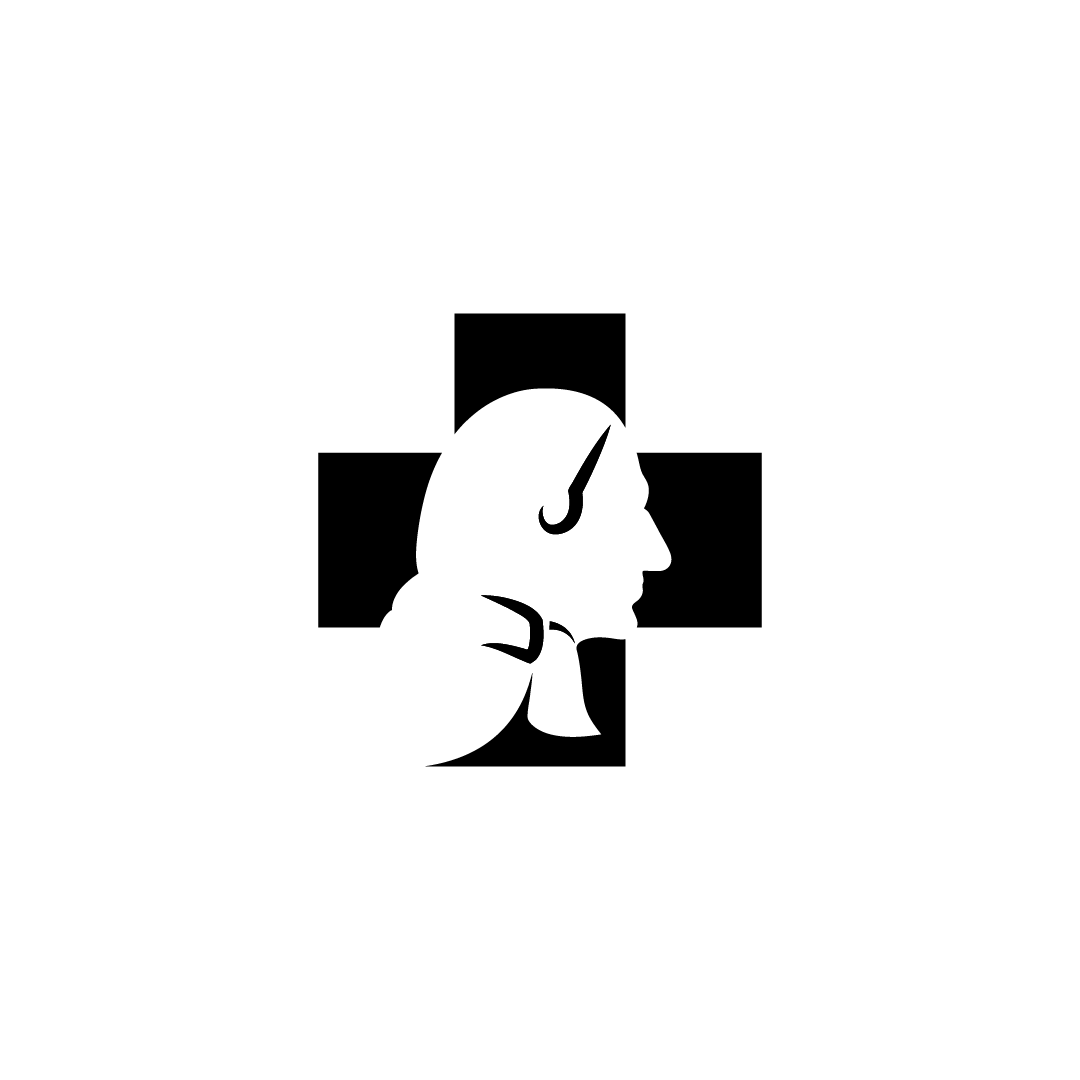
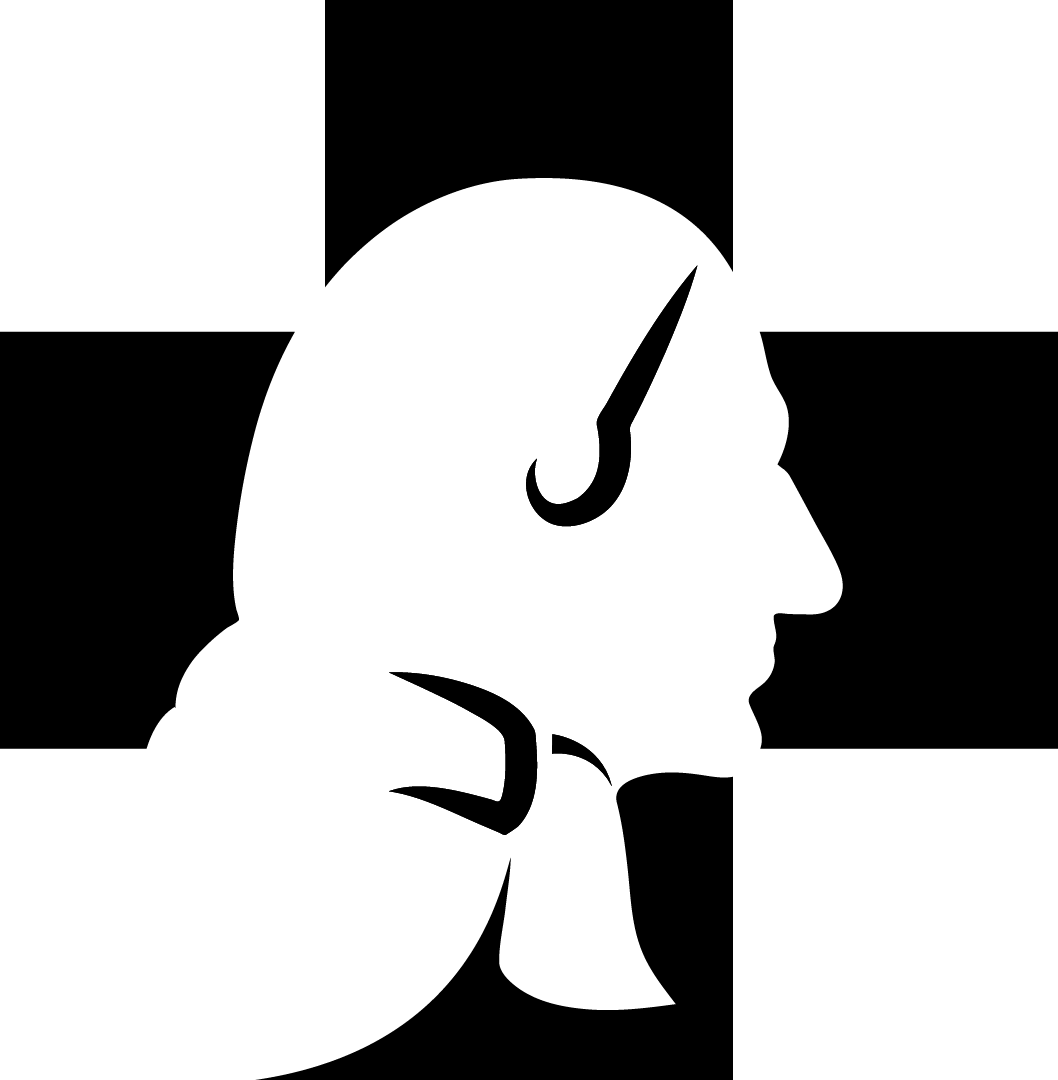
new services view an change styles

diff --git a/servicios.html b/servicios.html
@@ -12,12 +12,13 @@
     <link href="assets/vendor/bootstrap-icons/bootstrap-icons.css" rel="stylesheet">
 
     <link href="assets/css/style.css" rel="stylesheet">
+    <link  href="assets/css/servicios.css" rel="stylesheet">
 
 <body>
     <!-- Barra de navegación -->
     <nav class="navbar navbar-expand-lg sticky-top" id="navbar">
         <div class="container my-1">
-            <a class="navbar-brand" href="#"><img src="assets/img/iconoWesley.png" alt="Logo Centro mMedico"
+            <a class="navbar-brand" href="#"><img src="assets/img/iconoWesley_1.png" alt="Logo Centro mMedico"
                     class="img-fluid" width="50" height="50"> </a>
             <button class="navbar-toggler d-lg-none order-3 p-2" type="button" data-bs-toggle="offcanvas"
                 data-bs-target="#mobileMenu" aria-controls="mobileMenu">
@@ -25,7 +26,7 @@
             </button>
             <div class="offcanvas offcanvas-end" tabindex="-1" id="mobileMenu">
                 <div class="offcanvas-header px-4 pb-0">
-                    <h5 class="offcanvas-title text-white">Centro Medico Wesley</h5>
+                    <h5 class="offcanvas-title">Centro Medico Wesley</h5>
                     <button type="button" class="btn-close text-reset" data-bs-dismiss="offcanvas"
                         aria-label="Cerrar"></button>
                 </div>
@@ -70,7 +71,7 @@
                             </a>
                         </li>
                         <li class="nav-item py-2 py-lg-1 col-12 col-lg-auto">
-                            <div class="vr d-none d-lg-flex h-75 mx-lg-2 text-white"></div>
+                            <div class="vr d-none d-lg-flex h-75 mx-lg-2"></div>
                             <hr class="d-lg-none my-2 text-white-25">
                         </li>
                         <li class="nav-item col-6 col-lg-auto py-3 px-1">
@@ -88,6 +89,45 @@
     </nav>
 
     <main class="main">
+
+        <section id="servicio" class="pt-5 ps-lg-2">
+            <div class="p-lg-5 ms-lg-5 ms-md-2 ps-3 ms-0">
+                <h2 class="text-start text-1">Contamos con una amplia carta</h2>
+                <h2 class="text-start text-1">de servicios para tu <strong class="text-darkCyan">bienestar</strong></h2>
+            </div>
+            <div id="service" class="px-2">
+                <div class="row">
+                    <div class="col-12 col-md-6 col-lg-4 pt-4 column">
+                        <div class="boxService">
+                            <i class="bi bi-sun-fill"></i>
+                            <h3 class="title">Ambulancia la <strong class="text-darkCyan">24/7</strong></h3>
+                            <button class="btn btnService"><i class="plus"></i></button>
+                        </div>
+                    </div>
+                    <div class="col-12 col-md-6 col-lg-4 pt-4 column">
+                        <div class="boxService">
+                            <i class="bi bi-sun-fill"></i>
+                            <h3 class="title">Medicina integral</h3>
+                            <button class="btn btnService"><i class="plus"></i></button>
+                        </div>
+                    </div>
+                    <div class="col-12 col-md-6 col-lg-4 pt-4 column">
+                        <div class="boxService">
+                            <i class="bi bi-sun-fill"></i>
+                            <h3 class="title">Medicina a domicilio</h3>
+                            <button class="btn btnService"><i class="plus"></i></button>
+                        </div>
+                    </div>
+                    <div class="col-12 col-md-6 col-lg-4 pt-4 column">
+                        <div class="boxService">
+                            <i class="bi bi-sun-fill"></i>
+                            <h3 class="title">Clinica movil para usted</h3>
+                            <button class="btn btnService"><i class="plus"></i></button>
+                        </div>
+                    </div>
+                </div>
+            </div>
+        </section>
 
             <br><br><br><br><br><br><br><br><br><br><br><br><br><br><br><br><br><br><br><br><br><br><br><br><br><br><br><br><br><br><br><br><br><br>
 

diff --git a/assets/css/servicios.css b/assets/css/servicios.css
@@ -1,0 +1,177 @@
+/**************************************
+Genaral
+****************************************/
+
+body {
+    background: var(--bs-bg)
+}
+
+/**************************************
+Navbar
+****************************************/
+
+#navbar {
+    background: var(--bs-bg);
+
+}
+
+#navbar li a {
+ color: var(--bs-body-color-text);
+}
+
+#mobileMenu {
+    background: var(--bs-bg);
+}
+
+.navbar-toggler:hover,
+.nav-link:hover,
+.nav-link:focus {
+    color: var(--color-third) !important;
+}
+
+.offcanvas-title{
+    color: var(--bs-body-color-text);
+}
+
+.vr{
+    color: var(--bs-body-color-text);
+}
+
+#citaNow {
+    background-color: var(--color-primary);
+}
+
+#citaNow {
+    color: var(--color-background-light) !important
+}
+
+#citaNow:hover {
+    background-color: var(--bs-color-section);
+}
+
+#theme-icon {
+    color: var(--bs-body-color-text);
+  }
+  
+  #theme-text{
+    color: var(--bs-body-color-text);
+  }
+
+
+
+/**************************************
+  Main
+****************************************/
+
+
+main {
+    width: 100%;
+    background: var(--bs-bg)
+}
+
+/**************************************
+  Servicios
+****************************************/
+
+#servicio .text-1{
+    color: var(--bs-body-color-text);
+    font-size: calc(3vw + 1rem);
+}
+
+#servicio .text-1 .text-darkCyan,
+#servicio .title .text-darkCyan{
+    color: var(--color-primary);
+}
+
+.boxService {
+    background-color: var(--bs-body-absolute2);
+    padding: 20px;
+    border-radius: 10px;
+    box-shadow: 0 4px 8px rgba(0, 0, 0, 0.1);
+    text-align: start;
+    height: 100%;
+    display: flex;
+    flex-direction: column;
+    justify-content: center;
+    align-items: start;
+}
+.boxService i {
+    font-size: 2rem;
+    color: #000;
+    border-radius: 50%;
+    padding: 4px;
+    margin-bottom: 10px;
+}
+.boxService .title {
+    font-size: 1.25rem;
+    font-weight: bold;
+    color: var(--bs-body-color-text);
+}
+@media (min-width: 576px) {
+    .boxService .title {
+        font-size: 1.5rem;
+    }
+}
+@media (min-width: 768px) {
+    .boxService .title {
+        font-size: 1.75rem;
+    }
+}
+@media (min-width: 1200px) {
+    .boxService .title {
+        font-size: 2rem;
+    }
+}
+@media (min-width: 1600px) {
+    .boxService .title {
+        font-size: 4.25rem;
+    }
+}
+.column {
+    display: flex;
+    justify-content: center;
+    align-items: center;
+}
+
+@media (max-width: 992px){
+    .column {
+        display: block;
+    }
+}
+.btnService {
+    margin-top: 20px;
+    align-self: center;
+    border-radius: 50%;
+    background: var(--color-secondary);
+}
+
+.btnService:hover {
+    background: rgb(0, 139, 128) !important;
+    color: #ffffff;
+    cursor: pointer;
+  }
+  
+  .btnService:not(:hover) {
+    cursor: default;
+  }
+  
+  .btnService:active,
+  .btnService:focus {
+    background: rgb(0, 139, 128);
+    /* Cambia ligeramente el color de fondo al seleccionar el botón */
+    color: #ffffff;
+  }
+
+  .plus {
+    background-image: url(../img/iconos/plus.svg);
+    background-repeat: no-repeat;
+    background-position: center;
+    background-size: contain;
+    width: 30px;
+    height: 30px;
+    display: flex;
+    align-items: center;
+    justify-content: center;
+    margin: 5px auto !important
+}
+  

diff --git a/assets/js/servicios.js b/assets/js/servicios.js
@@ -3,6 +3,7 @@ document.addEventListener("DOMContentLoaded", function() {
     const themeToggle = document.getElementById('theme-toggle');
     const themeIcon = document.getElementById('theme-icon');
     const themeText = document.getElementById('theme-text');
+    let selectImg = document.querySelector('.navbar .navbar-brand img')
     
     let isDarkMode = false;
     
@@ -10,6 +11,7 @@ document.addEventListener("DOMContentLoaded", function() {
       const htmlElement = document.documentElement;
       if (htmlElement.getAttribute('data-bs-theme') === 'light') {
         htmlElement.setAttribute('data-bs-theme', 'dark');
+        selectImg.src = 'assets/img/iconoWesley.png';
         htmlElement.classList.add('dark');
         themeIcon.classList.remove('bi-sun-fill');
         themeIcon.classList.add('bi-moon-fill');
@@ -17,6 +19,7 @@ document.addEventListener("DOMContentLoaded", function() {
       } else {
         htmlElement.setAttribute('data-bs-theme', 'light');
         htmlElement.classList.remove('dark');
+        selectImg.src = 'assets/img/iconoWesley_1.png';
         themeIcon.classList.remove('bi-moon-fill');
         themeIcon.classList.add('bi-sun-fill');
         themeText.textContent = 'Light';

diff --git a/assets/css/style.css b/assets/css/style.css
@@ -49,6 +49,7 @@
   --bs-third: var(--color-third);
   --bs-color-section: var(--color-secondary);
   --bs-bg-absolute: var(--color-black);
+  --bs-body-absolute2: var(--color-text-light);
   --bs-check-mode : var(--color-text-light);
   --bs-bg: var(--color-backgraund-grey);
   --gradient-multicolor: var(--gradient-multicolor-light);
@@ -64,6 +65,7 @@
   --bs-third: var(--color-background-dark);
   --bs-color-section: var(--color-black);
   --bs-bg-absolute: var(--color-text-light);
+  --bs-body-absolute2: var(--color-black);
   --bs-check-mode : var(--color-text-light);
   --bs-bg: var(--color-background-dark);
   --gradient-multicolor: var(--gradient-multicolor-dark);

diff --git a/assets/css/nosotros.css b/assets/css/nosotros.css
@@ -640,13 +640,14 @@ Circulo
 
 .contactanos {
   width: 100%;
-  background: var(--bs-body-color-text);
+  background: var(--color-text-light);
   text-align: center;
   color: var(--bs-body-bg); /* Asegúrate de que la variable esté definida */
 }
 
 .contactanos h1{
   font-weight: bold;
+  color: var(--color-black);
 }
 
 .background-img {
@@ -655,7 +656,7 @@ Circulo
   background: url("../img/contactos.png") center center no-repeat;
   background-size: cover;
   padding: 60px 0;
-  color: var(--bs-body-color-text);
+  color: var(--color-text-light);
   position: relative;
 }
 

diff --git a/index.html b/index.html
@@ -148,7 +148,7 @@
 
         <section id="testimonios" class="my-5 mx-2">
             <div class="imgTest">
-                <img src="assets/img/medico.png" alt="medico" class="medico-img">
+                <img src="assets/img/medico.webp" alt="medico" class="medico-img">
             </div>
             <div class="row">
                 <div class="col-7 ps-4">
